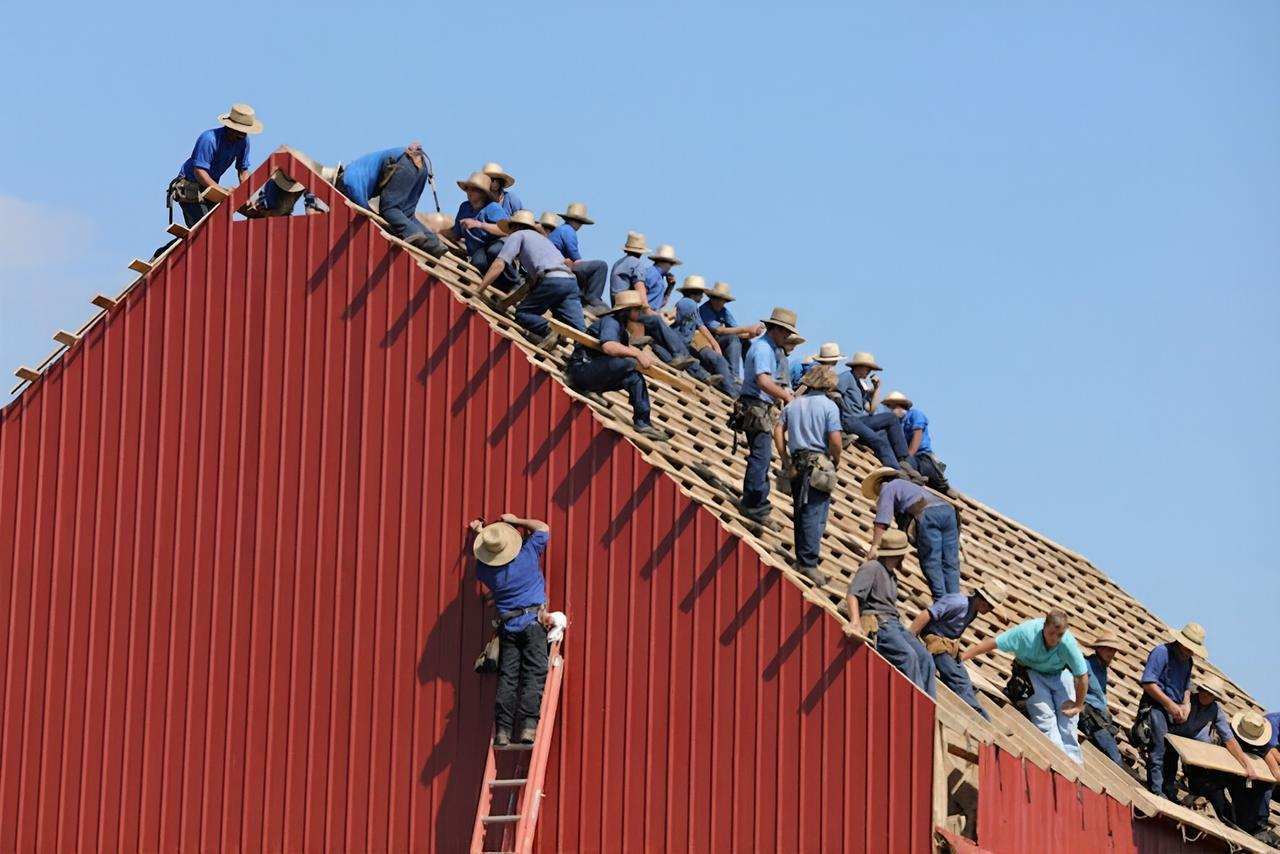
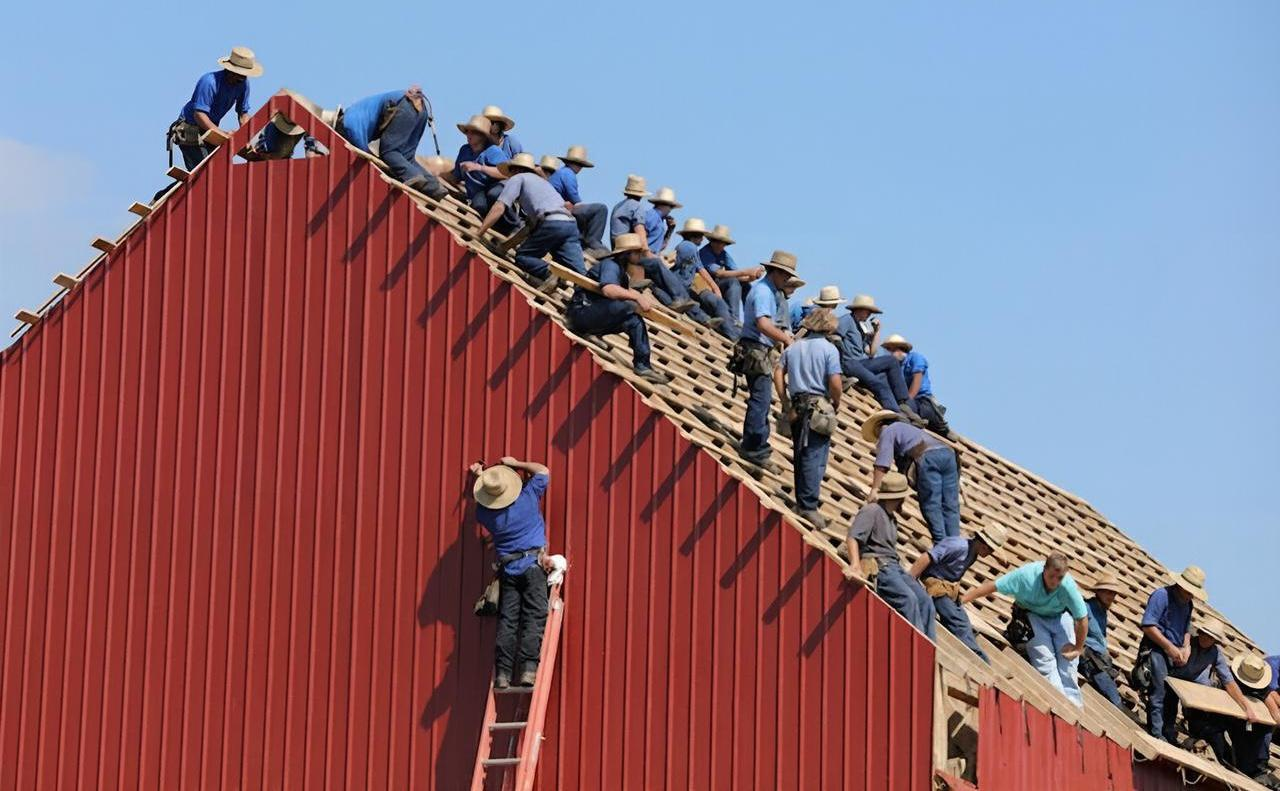
feat: add detailed README for drupal-config-fixer, changelog updates, and readme-shine configuration

diff --git a/knowledge/pages/general/README.md b/knowledge/pages/general/README.md
@@ -3,16 +3,162 @@ id: readme
 tags: ''
 -->
 
-# {{ book.title }}
+# drupal-config-fixer
 
 ![Hero](../../images/drupal-config-fixer.jpg)
 
-{{ composer.install }}
+> Scripted fixes for the nightmare of Drupal config management against localdev.
 
-## Web Package Installation
+## Summary
 
-Follow the above instructions from within _.web_package/composer.json_
+You export config from production, and your local environment needs something different: a spam module that is only enabled in production, a debug module that is only enabled locally, a permission a role gains once that module is on. Every `drush config:export` or pull puts the YAML back the way it was, and the edits have to be made again by hand.
 
-Here is an example Web Package hook file;
+Drupal Config Fixer turns those edits into a short PHP script that you run after every export. It edits the YAML files in your config sync directory directly: it enables and disables modules in `core.extension.yml`, adds and removes permissions and module dependencies in `user.role.*.yml`, and restores or deletes files with git. Each call checks the current state first, so running the script twice gives the same files as running it once.
 
-{{ example.web_package_hook_php|fenced }}
+## Quick Start
+
+Install it (the package is served from GitHub, not Packagist):
+
+```shell
+composer config repositories.drupal-config-fixer github https://github.com/aklump/drupal-config-fixer
+composer require aklump/drupal-config-fixer:^0.0
+```
+
+Say `config/user.role.content_editor.yml` contains:
+
+```yaml
+id: content_editor
+label: 'Content editor'
+permissions:
+  - 'access content overview'
+  - 'set page title'
+```
+
+Save this as `fix.php` next to `config/` and run `php fix.php`:
+
+```php
+<?php
+require __DIR__ . '/vendor/autoload.php';
+
+use AKlump\Drupal\ConfigFixer\ConfigFixer;
+
+$fix = new ConfigFixer('./config');
+$fix->roles(['content_editor'])
+  ->addDependency('captcha')
+  ->addPermission('skip CAPTCHA', 'access content overview');
+```
+
+The role file now reads:
+
+```yaml
+id: content_editor
+label: 'Content editor'
+permissions:
+  - 'access content overview'
+  - 'skip CAPTCHA'
+  - 'set page title'
+dependencies:
+  module:
+    - captcha
+```
+
+Run it again and the file stays the same.
+
+## Requirements
+
+- PHP 7.3 or newer. The test suite runs on PHP 7.3 through 8.5.
+- `git` on your `PATH`, only if you use `files()->restore()`. It runs `git restore`, so the script must run from inside the repository that holds the config.
+
+## Installation
+
+The package is not on Packagist, so first add its GitHub repository:
+
+```shell
+composer config repositories.drupal-config-fixer github https://github.com/aklump/drupal-config-fixer
+```
+
+Then require the latest stable version:
+
+```shell
+composer require aklump/drupal-config-fixer:^0.0
+```
+
+Or require the dev channel:
+
+```shell
+composer config minimum-stability dev
+composer require aklump/drupal-config-fixer:@dev
+```
+
+### Web Package
+
+To run the fixes as a [Web Package](https://github.com/aklump/web_package) build hook, run the commands above from within `.web_package/` so the dependency goes into `.web_package/composer.json`, then call the library from a hook file. See the example under Usage.
+
+## Usage
+
+`new ConfigFixer($base_path)` points at your config sync directory. It has three entry points, and every method on them returns the same object, so calls chain.
+
+### Modules: `core.extension.yml`
+
+| Method | Effect |
+|---|---|
+| `enable($module, $after_module)` | Adds `$module` with weight 0 after `$after_module`. If `$after_module` is not enabled, it is appended at the end. Does nothing if `$module` is already enabled. |
+| `disable($module)` | Removes `$module`. |
+| `addDependency($module, $after_module = NULL)` | Adds a module to `dependencies.module`, after `$after_module` or at the end. |
+| `removeDependency($module)` | Removes a module from `dependencies.module`. |
+
+### Roles: `user.role.<role>.yml`
+
+`$fix->roles(['anonymous', 'authenticated'])` applies each call to every role listed. A role file is rewritten only when its data actually changes.
+
+| Method | Effect |
+|---|---|
+| `addPermission($permission, $after_permission = NULL)` | Inserts after `$after_permission`, or appends. Skipped if the role already has it. |
+| `removePermission($permission)` | Removes the permission. |
+| `addDependency($module, $after_module = NULL)` | Inserts into `dependencies.module` after `$after_module`. With no `$after_module`, it goes first. |
+| `removeDependency($module)` | Removes the module dependency. |
+
+### Files
+
+| Method | Effect |
+|---|---|
+| `restore($relative_path)` | Runs `git restore` on the path, so a file the export deleted or changed comes back as committed. Shell wildcards work: `restore('monolog*.*')`. |
+| `delete($relative_path)` | Deletes the file if it exists. |
+
+### A complete hook
+
+This is the kind of script the package was written for (from `knowledge/examples/web_package_hook.php`):
+
+```php
+<?php
+
+use AKlump\Drupal\ConfigFixer\ConfigFixer;
+
+$fix = new ConfigFixer('./private/default/config/base');
+
+$fix->modules()
+  ->enable('honeypot', 'help')
+  ->enable('captcha', 'breakpoint')
+  ->enable('monolog', 'module_filter')
+  ->enable('monolog_conditional_mailer', 'monolog');
+
+$fix->files()
+  ->restore('honeypot.settings.yml')
+  ->restore('monolog*.*')
+  ->restore('captcha.*');
+
+$fix->roles(['site_admin'])
+  ->addDependency('captcha', 'block')
+  ->addDependency('honeypot', 'captcha')
+  ->addPermission('administer CAPTCHA settings')
+  ->addPermission('administer honeypot', 'administer CAPTCHA settings')
+  ->addPermission('skip CAPTCHA', 'administer honeypot');
+
+$fix->roles(['anonymous', 'authenticated'])
+  ->removeDependency('environment_indicator')
+  ->removePermission('access environment indicator');
+```
+
+## License
+
+[BSD-3-Clause](../../../LICENSE)

diff --git a/knowledge/pages/general/CHANGELOG.md b/knowledge/pages/general/CHANGELOG.md
@@ -10,4 +10,11 @@ The format is based on [Keep a Changelog](https://keepachangelog.com/en/1.0.0/),
 and this project adheres to [Semantic Versioning](https://semver.org/spec/v2.0.0.html).
 
 ## [Unreleased]
-- lorem
+
+### Fixed
+
+- `Roles::removePermission()` and `Roles::removeDependency()` stopped at the first role with no permissions/dependencies instead of processing the remaining roles.
+- `Modules::addDependency()` and `Modules::removeDependency()` failed with "Undefined index" when `core.extension.yml` has no `dependencies` key.
+- `Modules::enable()` triggered a PHP 8.3+ deprecation when the "after" module is not enabled; it now appends.
+- `Permissions` used an undeclared dynamic property (deprecated in PHP 8.2).
+- Restored PHP 7.3 compatibility by removing typed properties.
